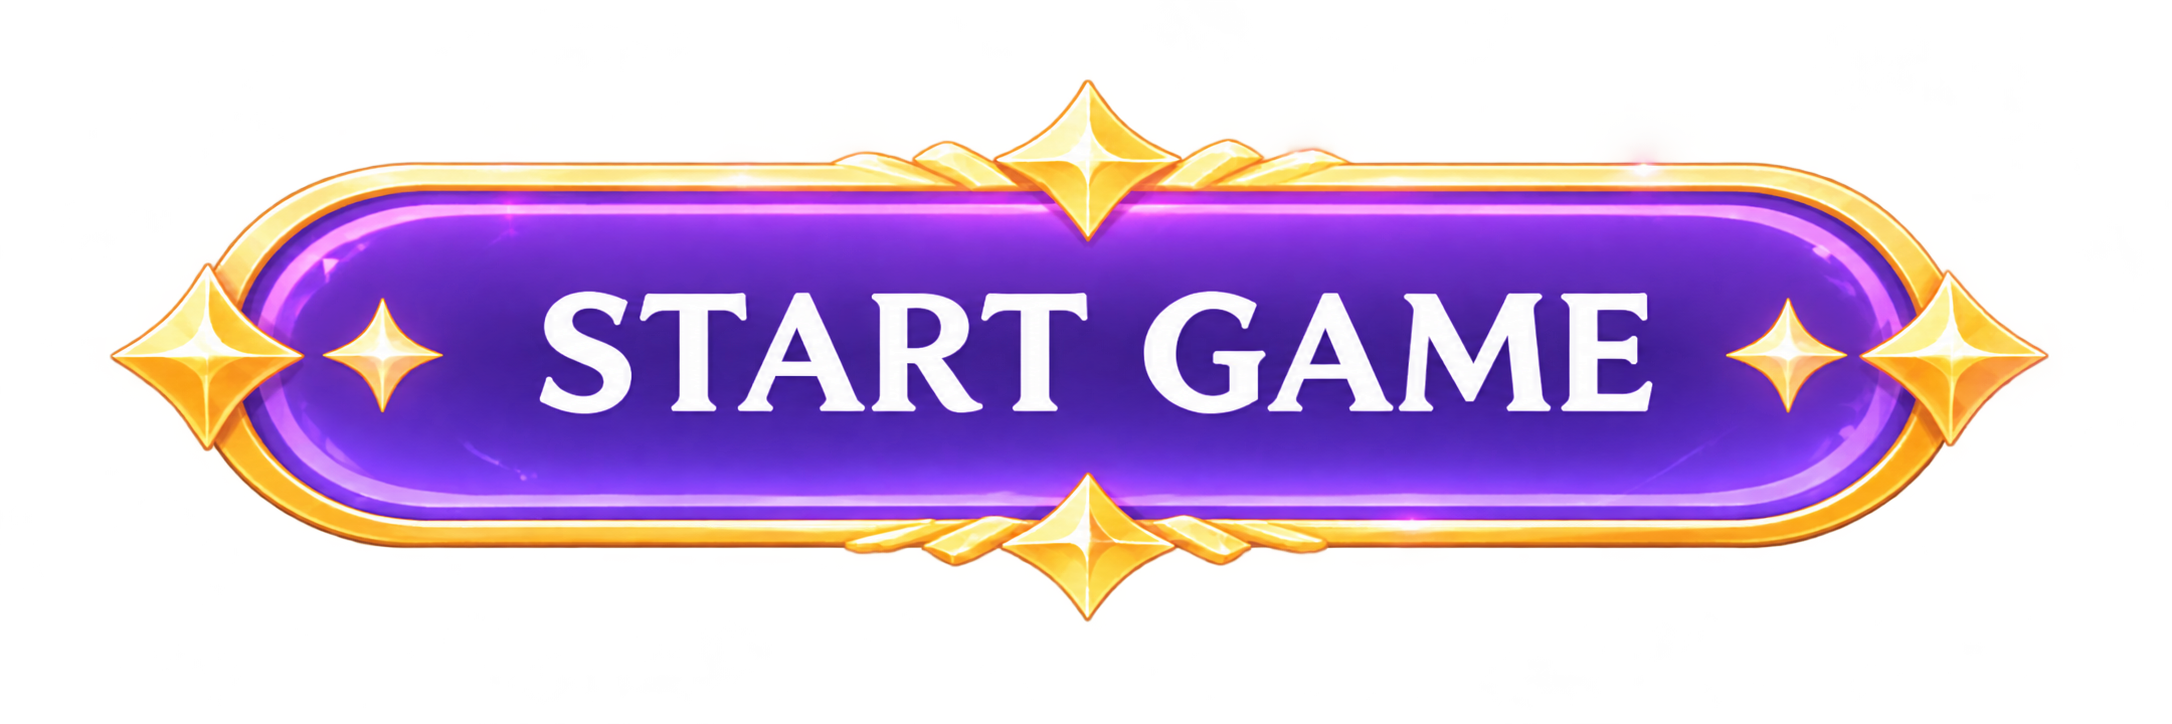
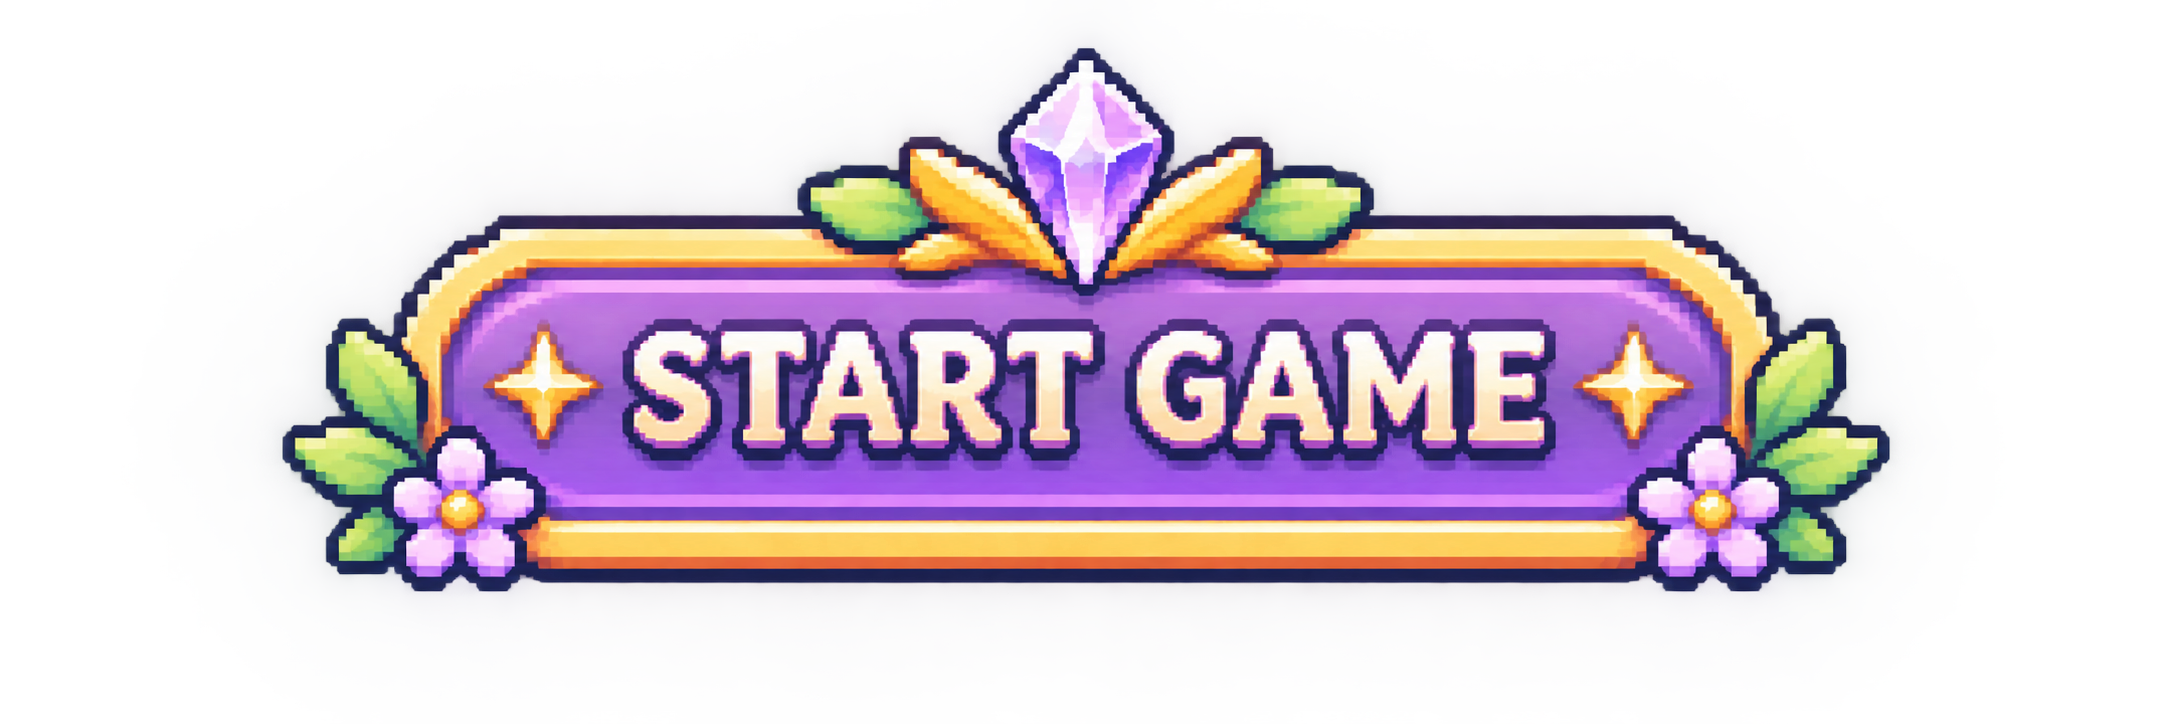
feat: enhance pixel art visuals and fix restart timer bug

diff --git a/src/main.js b/src/main.js
@@ -83,9 +83,11 @@ class TitleScene extends Phaser.Scene {
       // 시작 버튼 보라색 발광 효과
       this.startButton.postFX.addGlow(
         0xc084fc,
-        4,
+        2,
         0,
-        false
+        false,
+        0.1,
+        5
       );
     });
 
@@ -146,6 +148,12 @@ class GameScene extends Phaser.Scene {
 
   // 몬스터 이미지 불러오기
   preload() {
+    // 게임 필드 배경 이미지
+    this.load.image(
+      'field_background',
+      'src/assets/backgrounds/field_background.png'
+    );
+
     // 체력 하트 이미지 불러오기
     this.load.image('heart', 'src/assets/ui/heart.png');
 
@@ -173,6 +181,14 @@ class GameScene extends Phaser.Scene {
     // 게임 화면이 서서히 밝아지는 효과
     this.cameras.main.fadeIn(600, 0, 0, 0);
 
+    // 게임 필드 배경 표시
+    this.fieldBackground = this.add.image(
+      400, 300, 'field_background'
+    );
+
+    this.fieldBackground.setDisplaySize(800, 600);
+    this.fieldBackground.setDepth(-100);
+
     // 배경
     this.cameras.main.setBackgroundColor('#294b3a');
 
@@ -186,7 +202,7 @@ class GameScene extends Phaser.Scene {
       'player'
     );
 
-    this.playerImage.setDisplaySize(72, 60);
+    this.playerImage.setDisplaySize(86, 72);
     this.playerImage.setDepth(3);
 
     // 기존 노란색 원 숨기기
@@ -248,22 +264,19 @@ class GameScene extends Phaser.Scene {
       loop: true,
     });
 
-    // UI
-    this.add.text(400, 60, 'CATCHTROOP', {
-      fontSize: '32px',
-      color: '#ffffff',
-      fontStyle: 'bold',
-    }).setOrigin(0.5);
-
     this.allyText = this.add.text(20, 20, 'Allies: 0 / 10', {
       fontSize: '18px',
       color: '#ffffff',
+      stroke: '#000000',
+      strokeThickness: 3,
     });
 
     // 플레이어 체력 UI
     this.hpText = this.add.text(20, 50, 'HP:', {
       fontSize: '22px',
       color: '#ffffff',
+      stroke: '#000000',
+      strokeThickness: 3,
     });
 
     // 체력 하트 이미지
@@ -278,6 +291,8 @@ class GameScene extends Phaser.Scene {
     this.add.text(400, 550, 'Move: WASD / Arrow Keys', {
       fontSize: '18px',
       color: '#ffffff',
+      stroke: '#000000',
+      strokeThickness: 3,
     }).setOrigin(0.5);
   }
 
@@ -290,6 +305,7 @@ class GameScene extends Phaser.Scene {
     if (this.isGameOver) {
       // R 키를 누르면 게임 처음부터 다시 시작
       if (Phaser.Input.Keyboard.JustDown(this.restartKey)) {
+        this.time.paused = false;
         this.scene.restart();
       }
 
@@ -480,8 +496,11 @@ class GameScene extends Phaser.Scene {
           enemy.x,
           enemy.y,
           6,
-          0xffa94d
+          0xfecaca
         );
+
+        // 적군 마법탄 빨간색 발광 효과
+        bullet.postFX.addGlow(0xff3333, 8, 0, false);
 
         bullet.vx = Math.cos(angle);
         bullet.vy = Math.sin(angle);
@@ -566,6 +585,14 @@ class GameScene extends Phaser.Scene {
             stroke: '#000000',
             strokeThickness: 5,
           }).setOrigin(0.5).setDepth(10);
+
+          // 게임 재시작 안내 문구
+          this.add.text(400, 355, 'Press R to Restart', {
+            fontSize: '18px',
+            color: '#ffffff',
+            stroke: '#000000',
+            strokeThickness: 3,
+          }).setOrigin(0.5).setDepth(10);
         }
 
         // 플레이어 이미지 피격 효과
@@ -638,6 +665,14 @@ class GameScene extends Phaser.Scene {
             fontStyle: 'bold',
             stroke: '#000000',
             strokeThickness: 5,
+          }).setOrigin(0.5).setDepth(10);
+
+          // 게임 재시작 안내 문구
+          this.add.text(400, 355, 'Press R to Restart', {
+            fontSize: '18px',
+            color: '#ffffff',
+            stroke: '#000000',
+            strokeThickness: 3,
           }).setOrigin(0.5).setDepth(10);
         }
 
@@ -812,8 +847,11 @@ class GameScene extends Phaser.Scene {
                 ally.x,
                 ally.y,
                 5,
-                0x93c5fd
+                0xbfdbfe
               );
+
+              // 아군 마법탄 파란색 발광 효과
+              bullet.postFX.addGlow(0x3b82f6, 8, 0, false);
 
               bullet.vx = Math.cos(angle);
               bullet.vy = Math.sin(angle);
@@ -1015,8 +1053,11 @@ class GameScene extends Phaser.Scene {
       this.player.x,
       this.player.y,
       6,
-      0x7dd3fc
+      0xe9d5ff
     );
+
+    // 플레이어 마법탄 보라색 발광 효과
+    bullet.postFX.addGlow(0xa855f7, 8, 0, false);
 
     bullet.vx = Math.cos(angle);
     bullet.vy = Math.sin(angle);
@@ -1103,7 +1144,7 @@ class GameScene extends Phaser.Scene {
         enemy.monsterKey
       );
 
-      enemy.monsterImage.setDisplaySize(40, 40);
+      enemy.monsterImage.setDisplaySize(48, 48);
       enemy.monsterImage.setDepth(2);
 
       // PNG 실루엣을 따라 빨간 외곽 효과
@@ -1125,7 +1166,7 @@ class GameScene extends Phaser.Scene {
         enemy.monsterKey
       );
 
-      enemy.monsterImage.setDisplaySize(40, 40);
+      enemy.monsterImage.setDisplaySize(48, 48);
       enemy.monsterImage.setDepth(2);
 
       // 원거리 적의 빨간색 테두리
@@ -1494,7 +1535,7 @@ class GameScene extends Phaser.Scene {
         ally.monsterKey
       );
 
-      ally.monsterImage.setDisplaySize(40, 40);
+      ally.monsterImage.setDisplaySize(48, 48);
       ally.monsterImage.setDepth(2);
 
       // PNG 모양을 따라 파란색 테두리 표시
@@ -1519,7 +1560,7 @@ class GameScene extends Phaser.Scene {
         ally.monsterKey
       );
 
-      ally.monsterImage.setDisplaySize(40, 40);
+      ally.monsterImage.setDisplaySize(48, 48);
       ally.monsterImage.setDepth(2);
 
       // 아군은 파란색 테두리
@@ -1557,6 +1598,12 @@ class GameScene extends Phaser.Scene {
     // 버블 애니메이션 종료
     this.tweens.killTweensOf(candidate);
 
+    // 버블의 빛 반사 효과 제거
+    if (candidate.reflection) {
+      this.tweens.killTweensOf(candidate.reflection);
+      candidate.reflection.destroy();
+    }
+
     candidate.destroy();
   }
 
@@ -1565,16 +1612,41 @@ class GameScene extends Phaser.Scene {
   // ─────────────────────
 
   spawnCaptureCandidate(x, y, monsterType, monsterKey) {
-    // 포획 후보를 감싸는 반투명 노란색 버블
-    const candidate = this.add.circle(x, y, 28, 0xffdd00, 0.1);
+    /// 포획 후보를 감싸는 투명한 흰색 버블
+    const candidate = this.add.circle(x, y, 34, 0xffffff, 0.05);
 
-    // 버블의 노란색 테두리
-    candidate.setStrokeStyle(2, 0xffdd00, 0.8);
+    // 버블의 흰색 테두리
+    candidate.setStrokeStyle(2, 0xffffff, 0.85);
     candidate.setDepth(1);
+
+    // 버블 표면의 빛 반사 효과
+    candidate.reflection = this.add.graphics();
+
+    candidate.reflection.lineStyle(3, 0xffffff, 0.9);
+    candidate.reflection.beginPath();
+    candidate.reflection.arc(
+      0, 0, 29,
+      Phaser.Math.DegToRad(195),
+      Phaser.Math.DegToRad(255)
+    );
+    candidate.reflection.strokePath();
+
+    // 오른쪽 아래의 작은 빛 반사
+    candidate.reflection.lineStyle(2, 0xffffff, 0.5);
+    candidate.reflection.beginPath();
+    candidate.reflection.arc(
+      0, 0, 23,
+      Phaser.Math.DegToRad(25),
+      Phaser.Math.DegToRad(65)
+    );
+    candidate.reflection.strokePath();
+
+    candidate.reflection.setPosition(x, y);
+    candidate.reflection.setDepth(4);
 
     // 포획 후보 버블 확대·축소 및 밝기 애니메이션
     this.tweens.add({
-      targets: candidate,
+      targets: [candidate, candidate.reflection],
       scaleX: 1.12,
       scaleY: 1.12,
       alpha: { from: 0.6, to: 1 },
@@ -1595,12 +1667,12 @@ class GameScene extends Phaser.Scene {
         candidate.monsterKey
       );
 
-      candidate.monsterImage.setDisplaySize(50, 50);
+      candidate.monsterImage.setDisplaySize(60, 60);
       candidate.monsterImage.setDepth(2);
 
       // 포획 가능한 몬스터는 노란색으로 빛나게 표시
       candidate.monsterImage.postFX.addGlow(
-        0xffdd00,
+        0xffffff,
         5,
         0,
         false,
@@ -1617,12 +1689,12 @@ class GameScene extends Phaser.Scene {
         candidate.monsterKey
       );
 
-      candidate.monsterImage.setDisplaySize(50, 50);
+      candidate.monsterImage.setDisplaySize(60, 60);
       candidate.monsterImage.setDepth(2);
 
       // 포획 후보는 노란색 테두리
       candidate.monsterImage.postFX.addGlow(
-        0xffdd00,
+        0xffffff,
         5,
         0,
         false,
